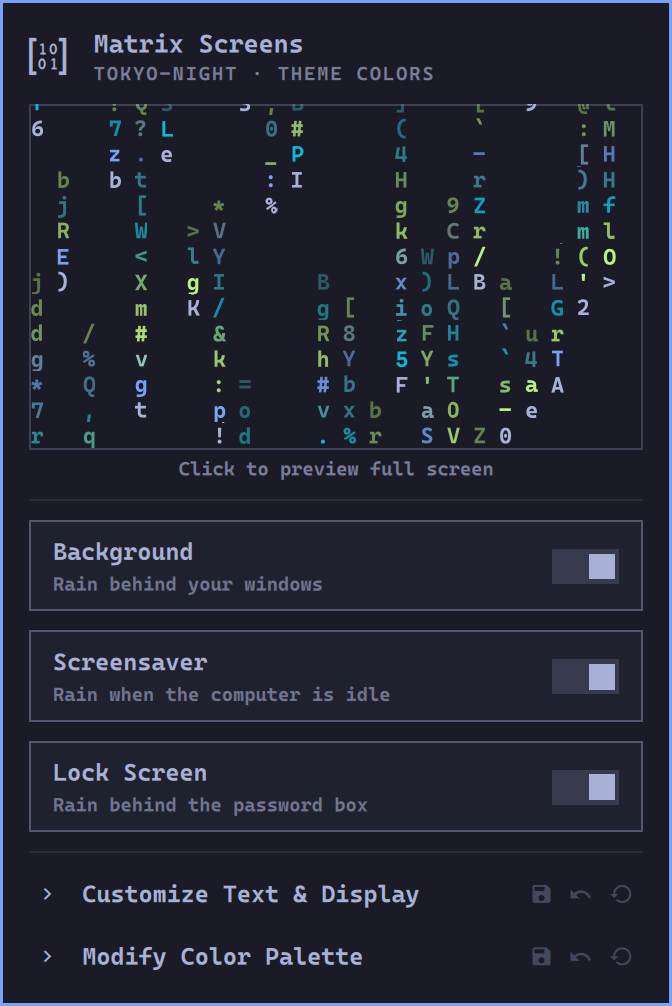
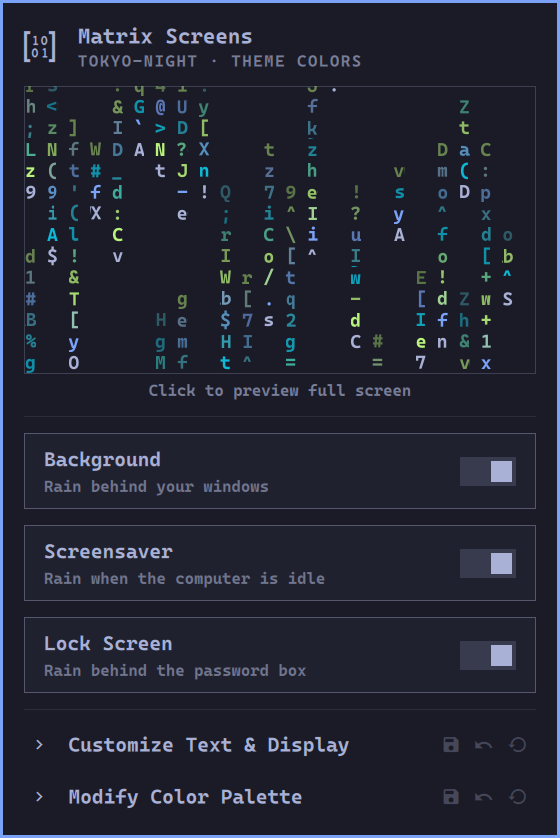
Screenshots: retake the ones captured wrong
- preview.png and the bar icon: the bar now shows the theme's own
  background (the old shot had a machine-wide black-bar override); the
  icon crop is the bar's exact height, centered on the icon.
- Panel shots at a display scale where the panel fits on screen, so the
  color palette section shows complete in one image (replaces the cut-off
  06 and the scrolled 07).
- Spectrum rain: the theme's own rainbow default (the old shot was taken
  while its palette was missing).

Claude-Session: https://claude.ai/code/session_01GgSwXzWRsLD4v7oGep2m2F

diff --git a/README.md b/README.md
@@ -27,8 +27,7 @@ Matrix digital rain as your desktop background, screensaver and lock screen, in 
 | ![Customize Text & Display](screenshots/03-panel-text-and-display.png) | **Customize Text & Display**: typeface, size, tail fade, hue shift and speed. |
 | ![Typeface dropdown](screenshots/04-panel-typeface-dropdown.png) | The typeface dropdown, with a search box. |
 | ![Unsaved changes](screenshots/05-panel-unsaved-changes.png) | Unsaved changes turn the section's save, undo and reset icons red; the preview shows the draft. |
-| ![Modify Color Palette](screenshots/06-panel-color-palette.png) | **Modify Color Palette**: head, background and tail colors, with a color picker. |
-| ![Bottom of Modify Color Palette](screenshots/07-panel-color-palette-bottom.png) | The theme's colors as quick picks, and *Manually Edit Color Configuration*. |
+| ![Modify Color Palette](screenshots/06-panel-color-palette.png) | **Modify Color Palette**: head, background and tail colors, a color picker, the theme's colors as quick picks, and *Manually Edit Color Configuration*. |
 
 ## Installation
 
